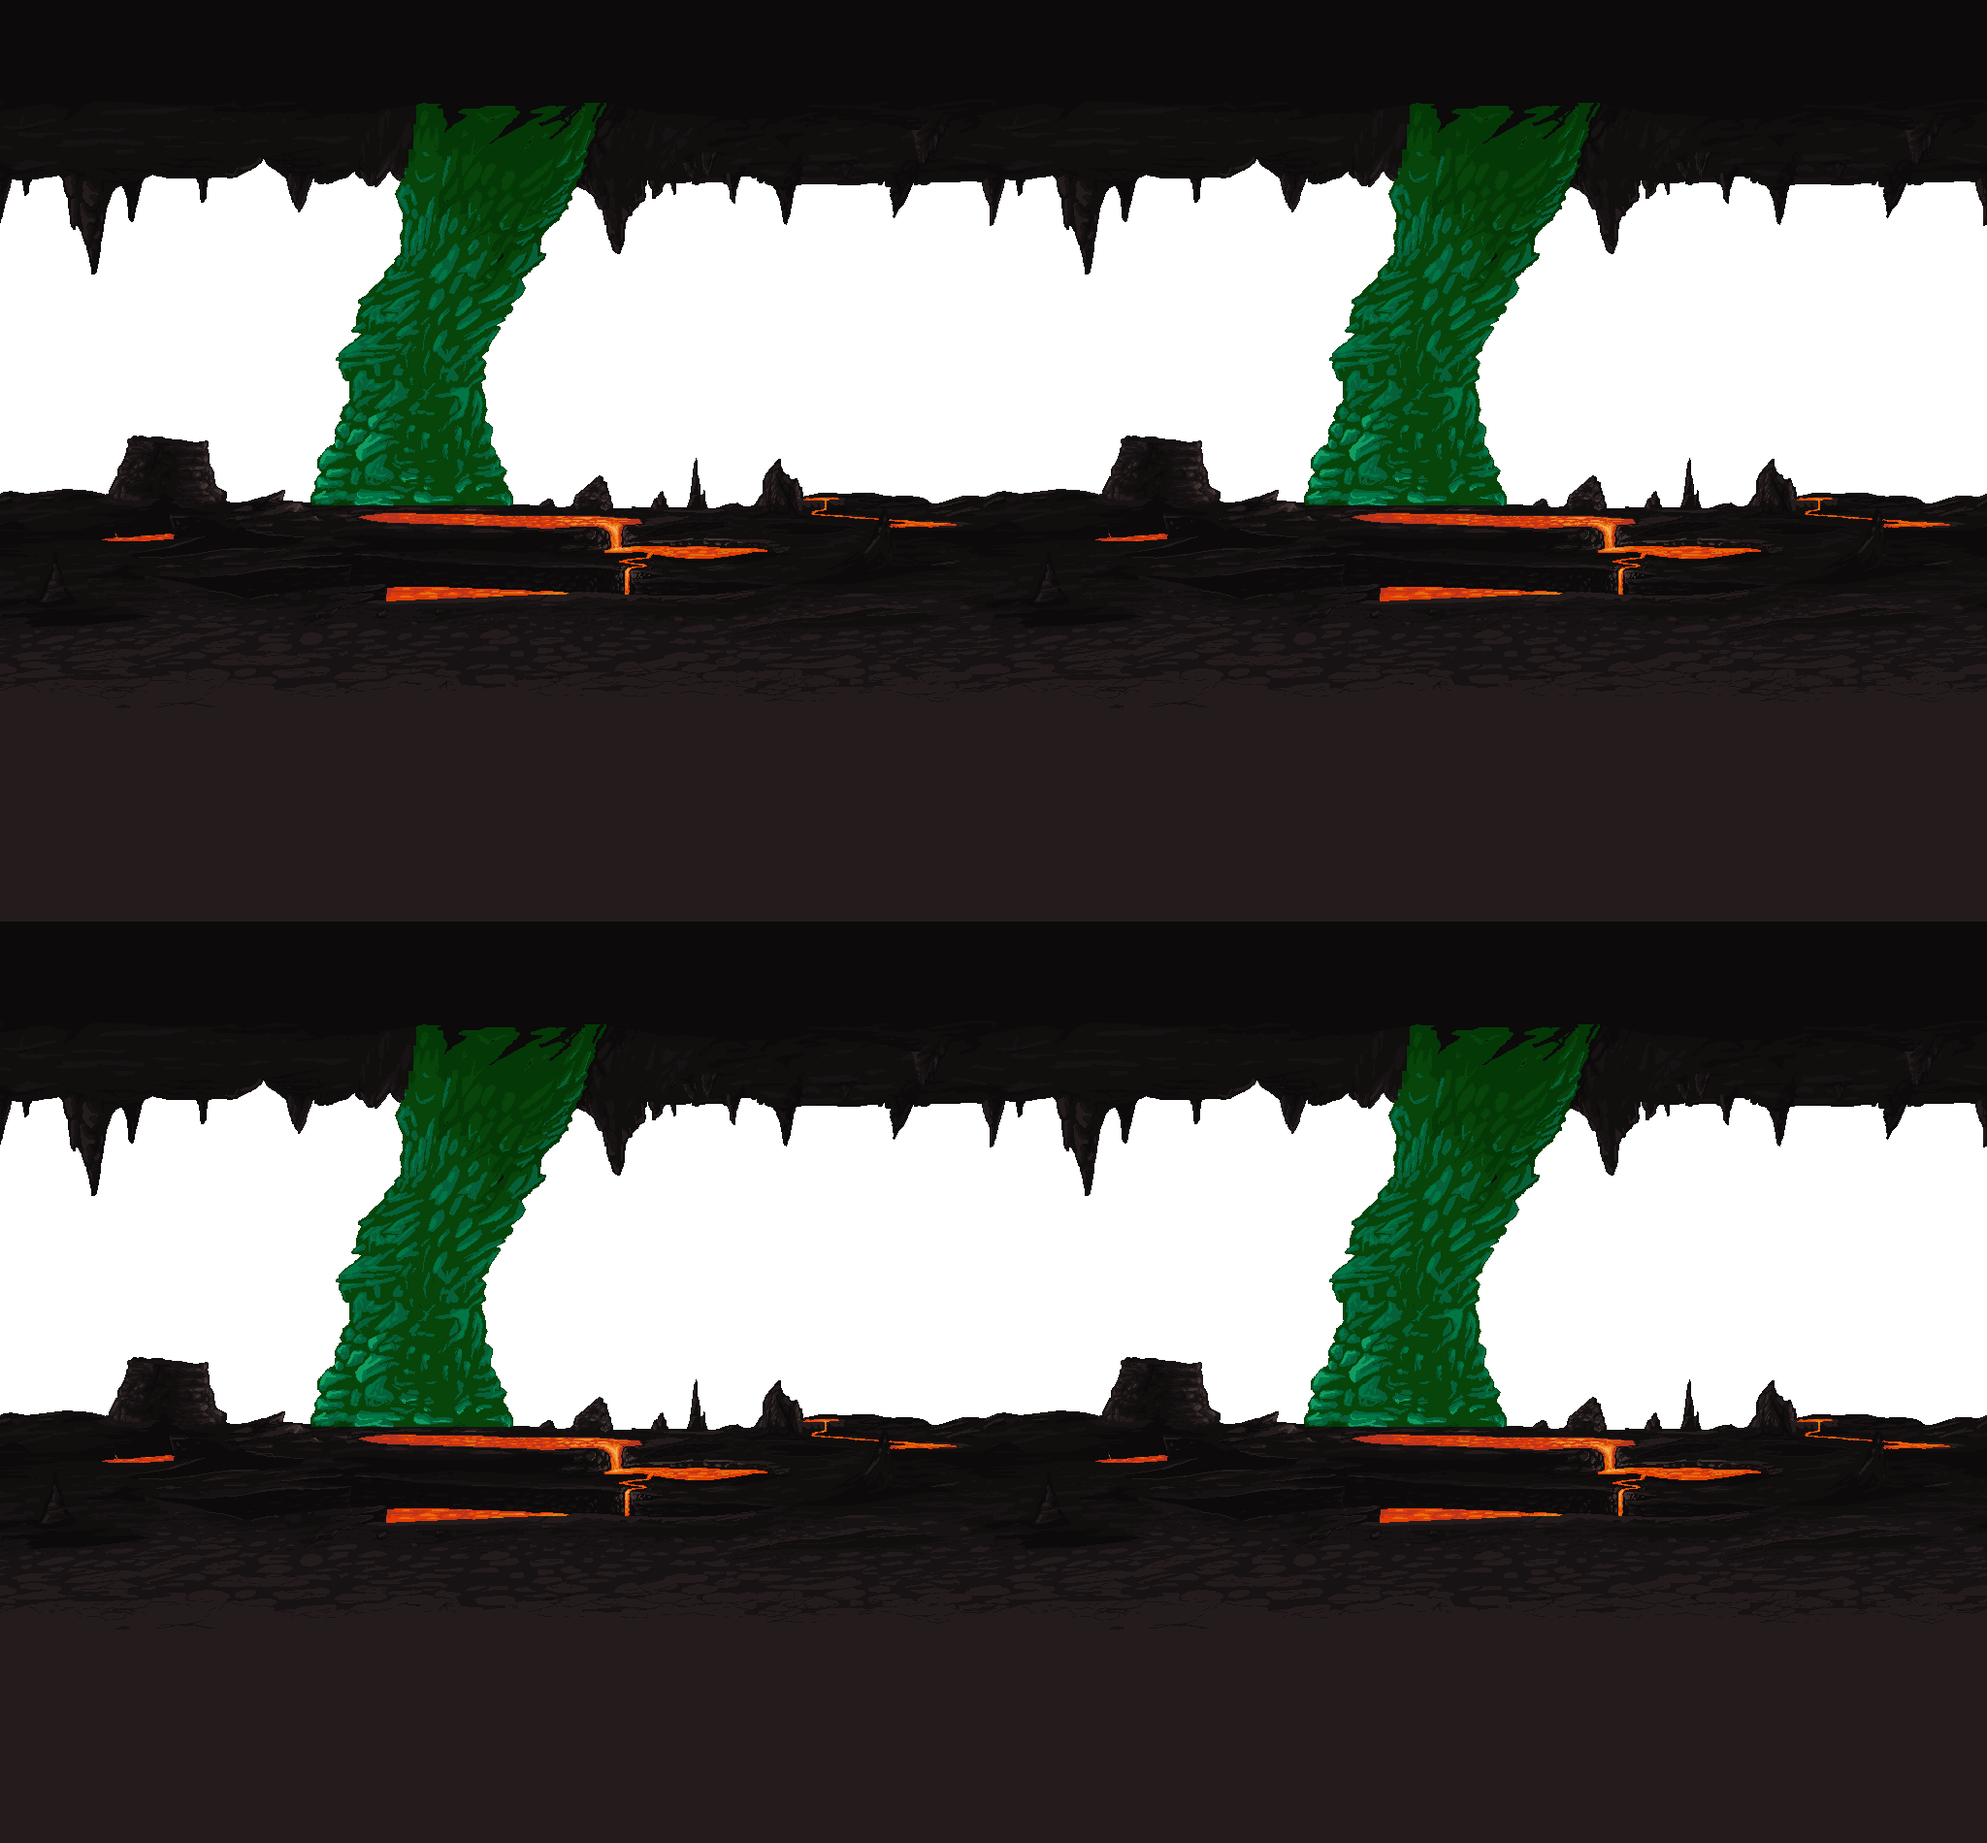
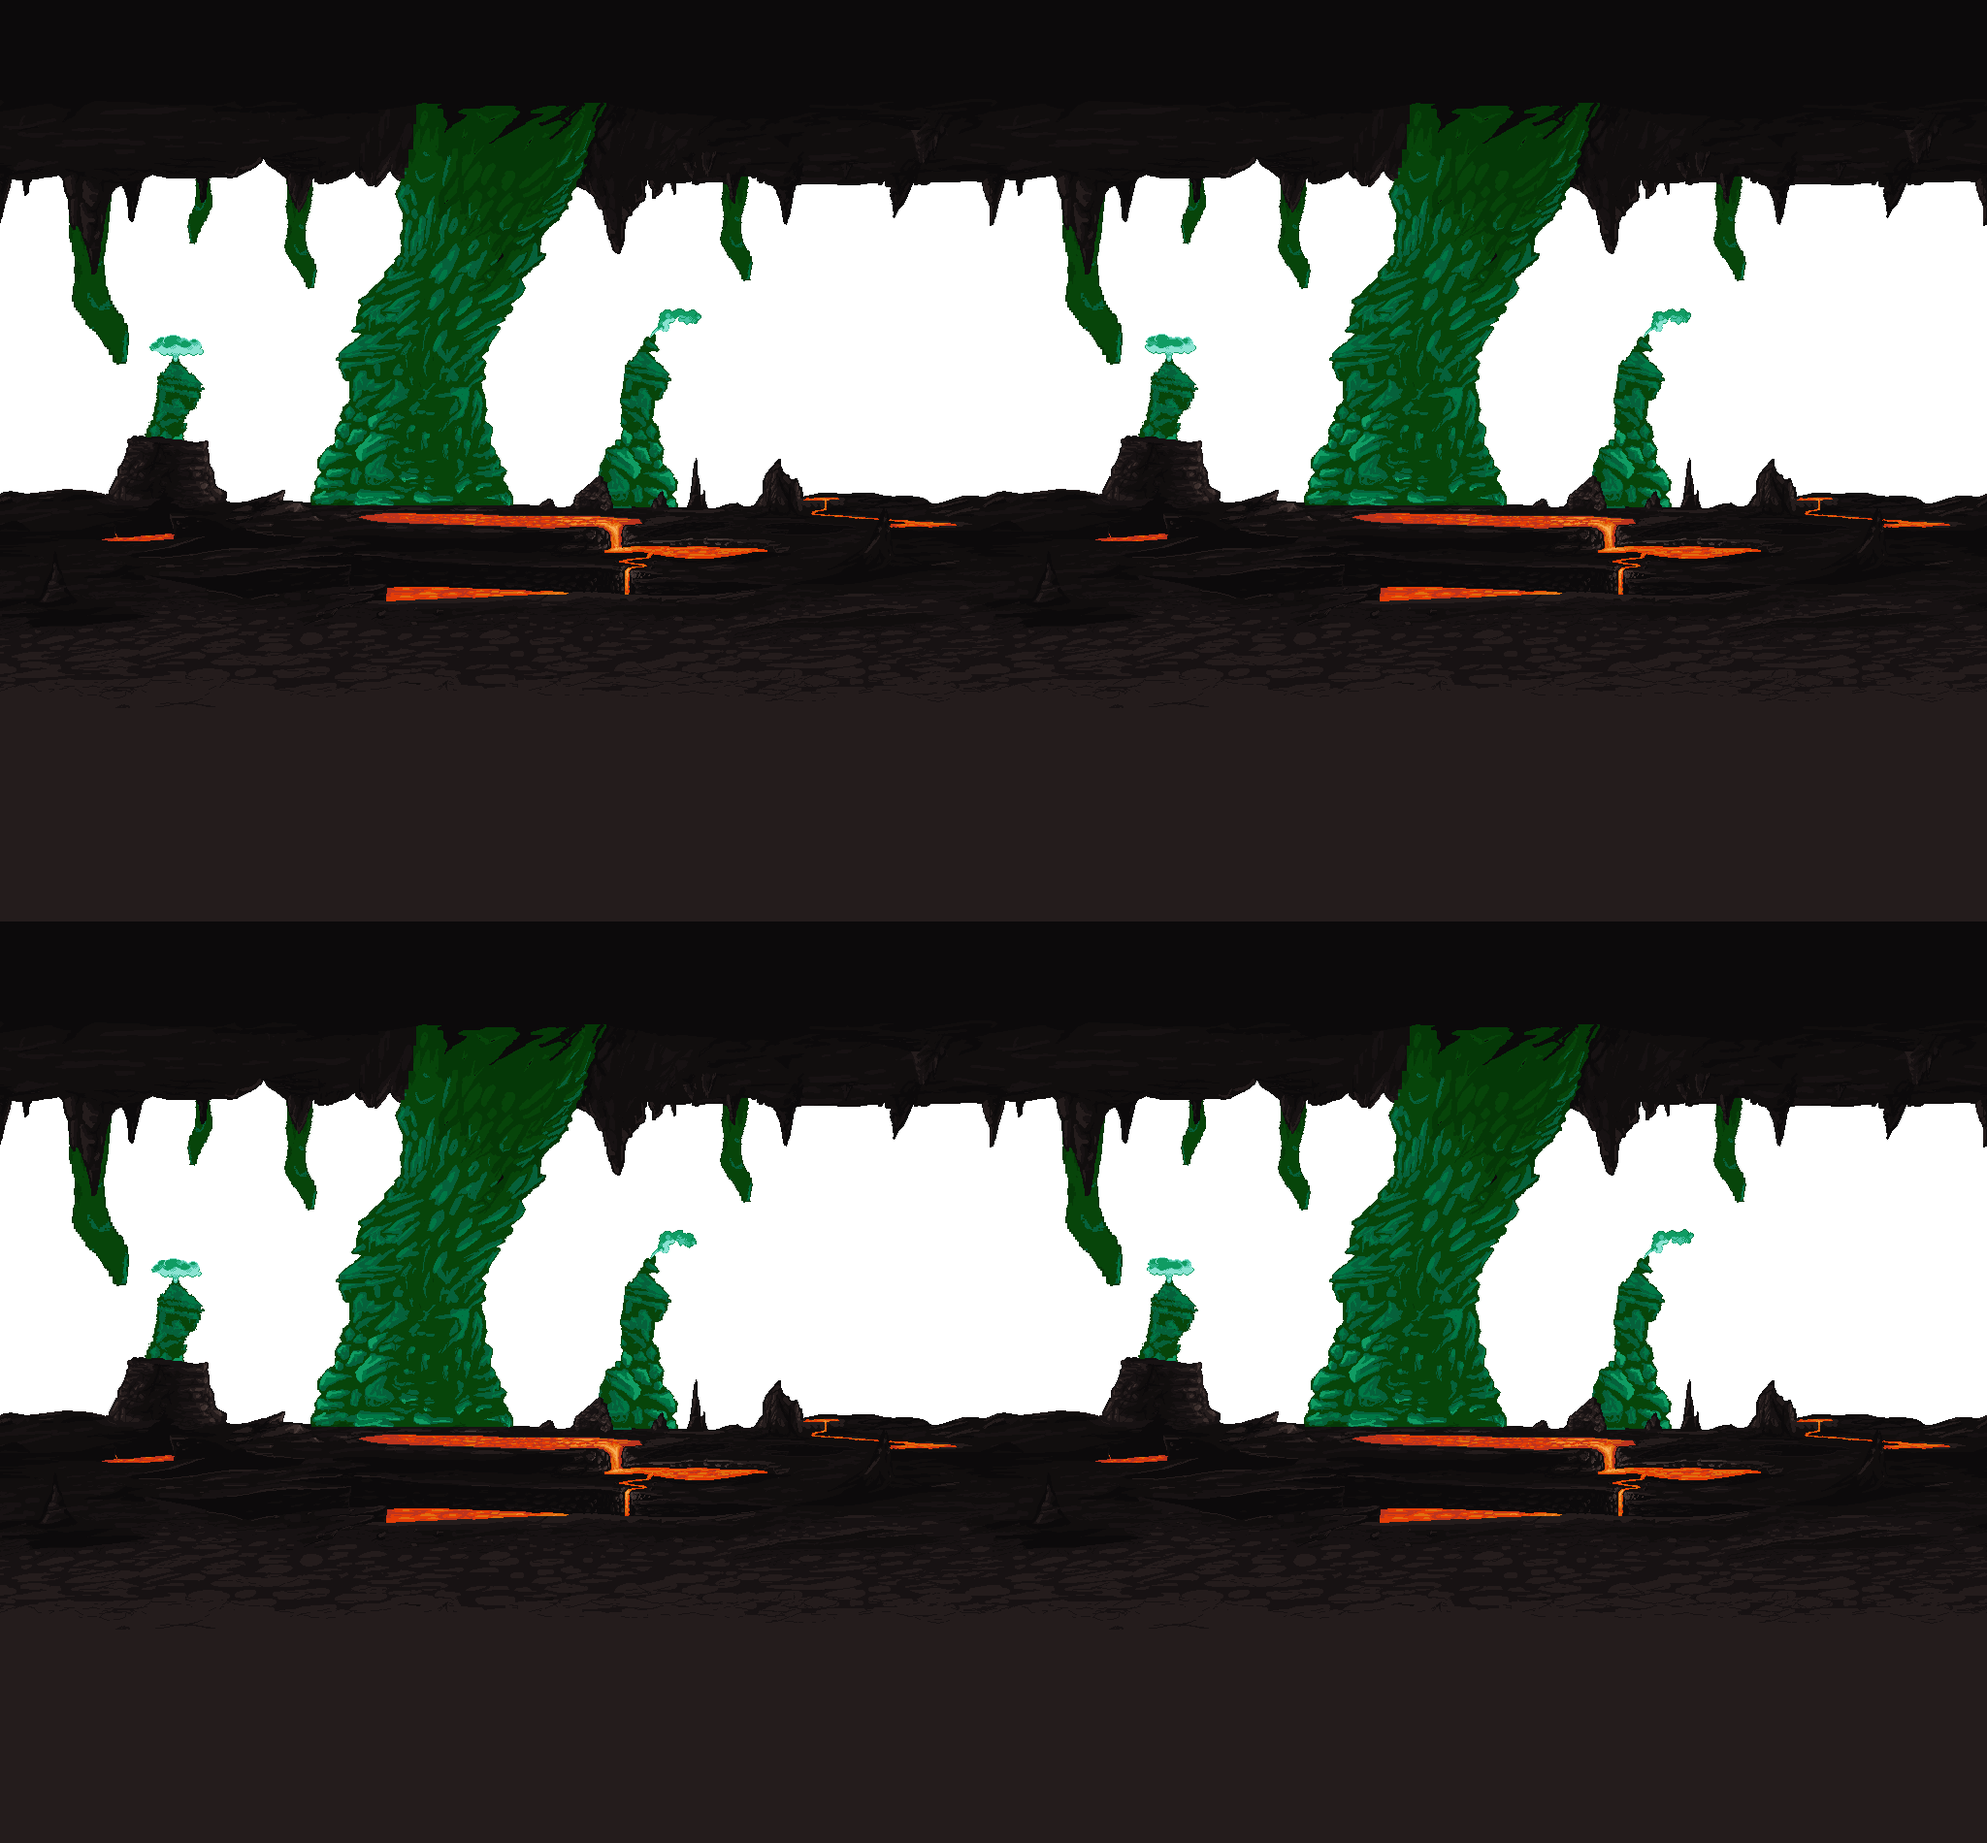
Add Lazite Grass
-Also update Caesium Blastplains background

diff --git a/World/Passes/Underworld.cs b/World/Passes/Underworld.cs
@@ -47,6 +47,7 @@ namespace ExxoAvalonOrigins.World.Passes
                                 if (q % 20 == 0)
                                 {
                                     Structures.CaesiumSpike.CreateSpikeUp(q, z, (ushort)ModContent.TileType<Tiles.Ores.CaesiumOre>()); // Structures.CaesiumSpike.CreateSpike(q, z);
+                                    Structures.CaesiumSpike.CreateSpikeDown(q, z, (ushort)ModContent.TileType<Tiles.Ores.CaesiumOre>());
                                 }
                             }
                         }
@@ -62,6 +63,7 @@ namespace ExxoAvalonOrigins.World.Passes
                             {
                                 if (q % 20 == 0)
                                 {
+                                    Structures.CaesiumSpike.CreateSpikeUp(q, z, (ushort)ModContent.TileType<Tiles.Ores.CaesiumOre>());
                                     Structures.CaesiumSpike.CreateSpikeDown(q, z, (ushort)ModContent.TileType<Tiles.Ores.CaesiumOre>()); // Structures.CaesiumSpike.CreateSpike(q, z);
                                 }
                             }
@@ -80,6 +82,23 @@ namespace ExxoAvalonOrigins.World.Passes
                     //        }
                     //    }
                     //}
+                }
+            }
+            for (int q = Main.maxTilesX - Main.maxTilesX / 5; q < Main.maxTilesX - 20; q++)
+            {
+                for (int z = Main.maxTilesY - 250; z < Main.maxTilesY - 20; z++)
+                {
+                    if (q % 100 < 33 && z > Main.maxTilesY - 175)
+                    {
+                        if (Main.tile[q, z].active() && !Main.tile[q, z - 1].active() ||
+                            Main.tile[q, z].active() && !Main.tile[q, z + 1].active() ||
+                            Main.tile[q, z].active() && !Main.tile[q - 1, z].active() ||
+                            Main.tile[q, z].active() && !Main.tile[q + 1, z].active())
+                        {
+                            if (Main.tile[q, z].type == ModContent.TileType<Tiles.BlackBlaststone>())
+                                Main.tile[q, z].type = (ushort)ModContent.TileType<Tiles.LaziteGrass>();
+                        }
+                    }
                 }
             }
             progress.Message = "Generating Hellcastle and Ashen Overgrowth";

diff --git a/Tiles/LaziteGrass.cs b/Tiles/LaziteGrass.cs
@@ -1,0 +1,35 @@
+using Microsoft.Xna.Framework;
+using Terraria;
+using Terraria.ID;
+using Terraria.ModLoader;
+
+namespace ExxoAvalonOrigins.Tiles
+{
+    public class LaziteGrass : ModTile
+    {
+        public override void SetDefaults()
+        {
+            AddMapEntry(new Color(3, 2, 209));
+            Main.tileSolid[Type] = true;
+            Main.tileBrick[Type] = true;
+            Main.tileBlockLight[Type] = true;
+            Main.tileBlendAll[Type] = true;
+            Main.tileMergeDirt[Type] = true;
+            Main.tileMerge[Type][ModContent.TileType<BlackBlaststone>()] = true;
+            Main.tileMerge[ModContent.TileType<BlackBlaststone>()][Type] = true;
+            drop = ModContent.ItemType<Items.Placeable.Tile.BlackBlaststone>();
+            dustType = DustID.SapphireBolt;
+            soundType = SoundID.Tink;
+            soundStyle = 1;
+        }
+
+        public override void KillTile(int i, int j, ref bool fail, ref bool effectOnly, ref bool noItem)
+        {
+            if (fail && !effectOnly)
+            {
+                Main.tile[i, j].type = (ushort)ModContent.TileType<BlackBlaststone>();
+                WorldGen.SquareTileFrame(i, j);
+            }
+        }
+    }
+}

diff --git a/ExxoAvalonOriginsWorld.cs b/ExxoAvalonOriginsWorld.cs
@@ -1879,6 +1879,10 @@ namespace ExxoAvalonOrigins
                                     {
                                         WorldGen.SpreadGrass(m, n, TileID.Ash, ModContent.TileType<Impgrass>(), false, Main.tile[num5, num6].color());
                                     }
+                                    if (Main.tile[m, n].type == ModContent.TileType<BlackBlaststone>())
+                                    {
+                                        WorldGen.SpreadGrass(m, n, ModContent.TileType<BlackBlaststone>(), ModContent.TileType<LaziteGrass>(), false, Main.tile[num5, num6].color());
+                                    }
                                 }
                             }
                         }
